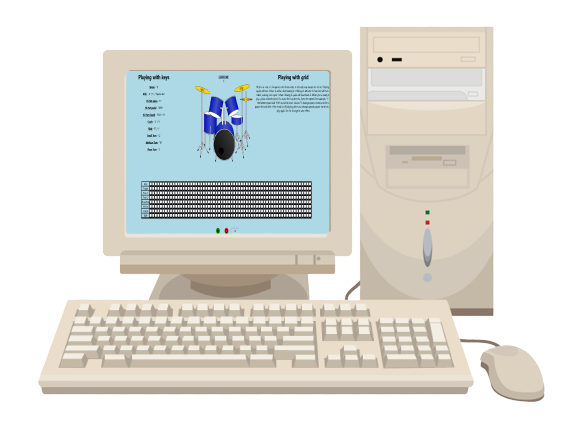
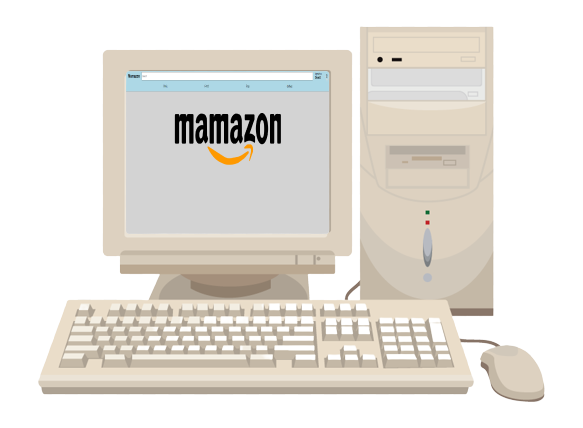
updated project section

Changed region(s): [[0.2161, 0.1519, 0.5866, 0.5467], [0.247, 0.6986, 0.7719, 0.8505]]

diff --git a/src/Pages/Projects.js b/src/Pages/Projects.js
@@ -29,15 +29,15 @@ function Projects(){
                 <div className="Project">
                    <div style={{"width":"50%"}}>
                     <div className="Project_Info">
-                        <h1 style={{"fontSize":"3rem"}}>Desktop Drummer</h1>
-                        <p style={{"marginTop":"50px"}}>Interactive drum app where you can use your keyboard or mouse to make drum sounds. Also features a grid of notes to allow the user to create a drum loop. </p>
+                        <h1 style={{"fontSize":"3rem"}}>Mamazon</h1>
+                        <p style={{"marginTop":"50px"}}>A mockup of an online store allowing users to fill a cart with items and see the total cost and cart items update instantly.  </p>
                         <h2 style={{"textAlign":"center"}}>Skills Used</h2>
                         <div className="Skill_Icons">
                            <img alt="" src="https://cdn.jsdelivr.net/gh/devicons/devicon/icons/react/react-original-wordmark.svg" /> 
                            <img alt="" src="https://cdn.jsdelivr.net/gh/devicons/devicon/icons/css3/css3-original-wordmark.svg" />
                         </div>             
                     </div>
-                       <a target="_blank" rel="noreferrer" style={{"textDecoration":"none"}} href="https://desktop-drummer.netlify.app/"> <button style={{"margin":"10px auto 0px"}}>View Project</button></a>
+                       <a target="_blank" rel="noreferrer" style={{"textDecoration":"none"}} href="https://jshmamazon.netlify.app//"> <button style={{"margin":"10px auto 0px"}}>View Project</button></a>
                    </div>
                    <img alt="" className="Project_Image" src={Desktop_Drummer}></img>
                 </div>
